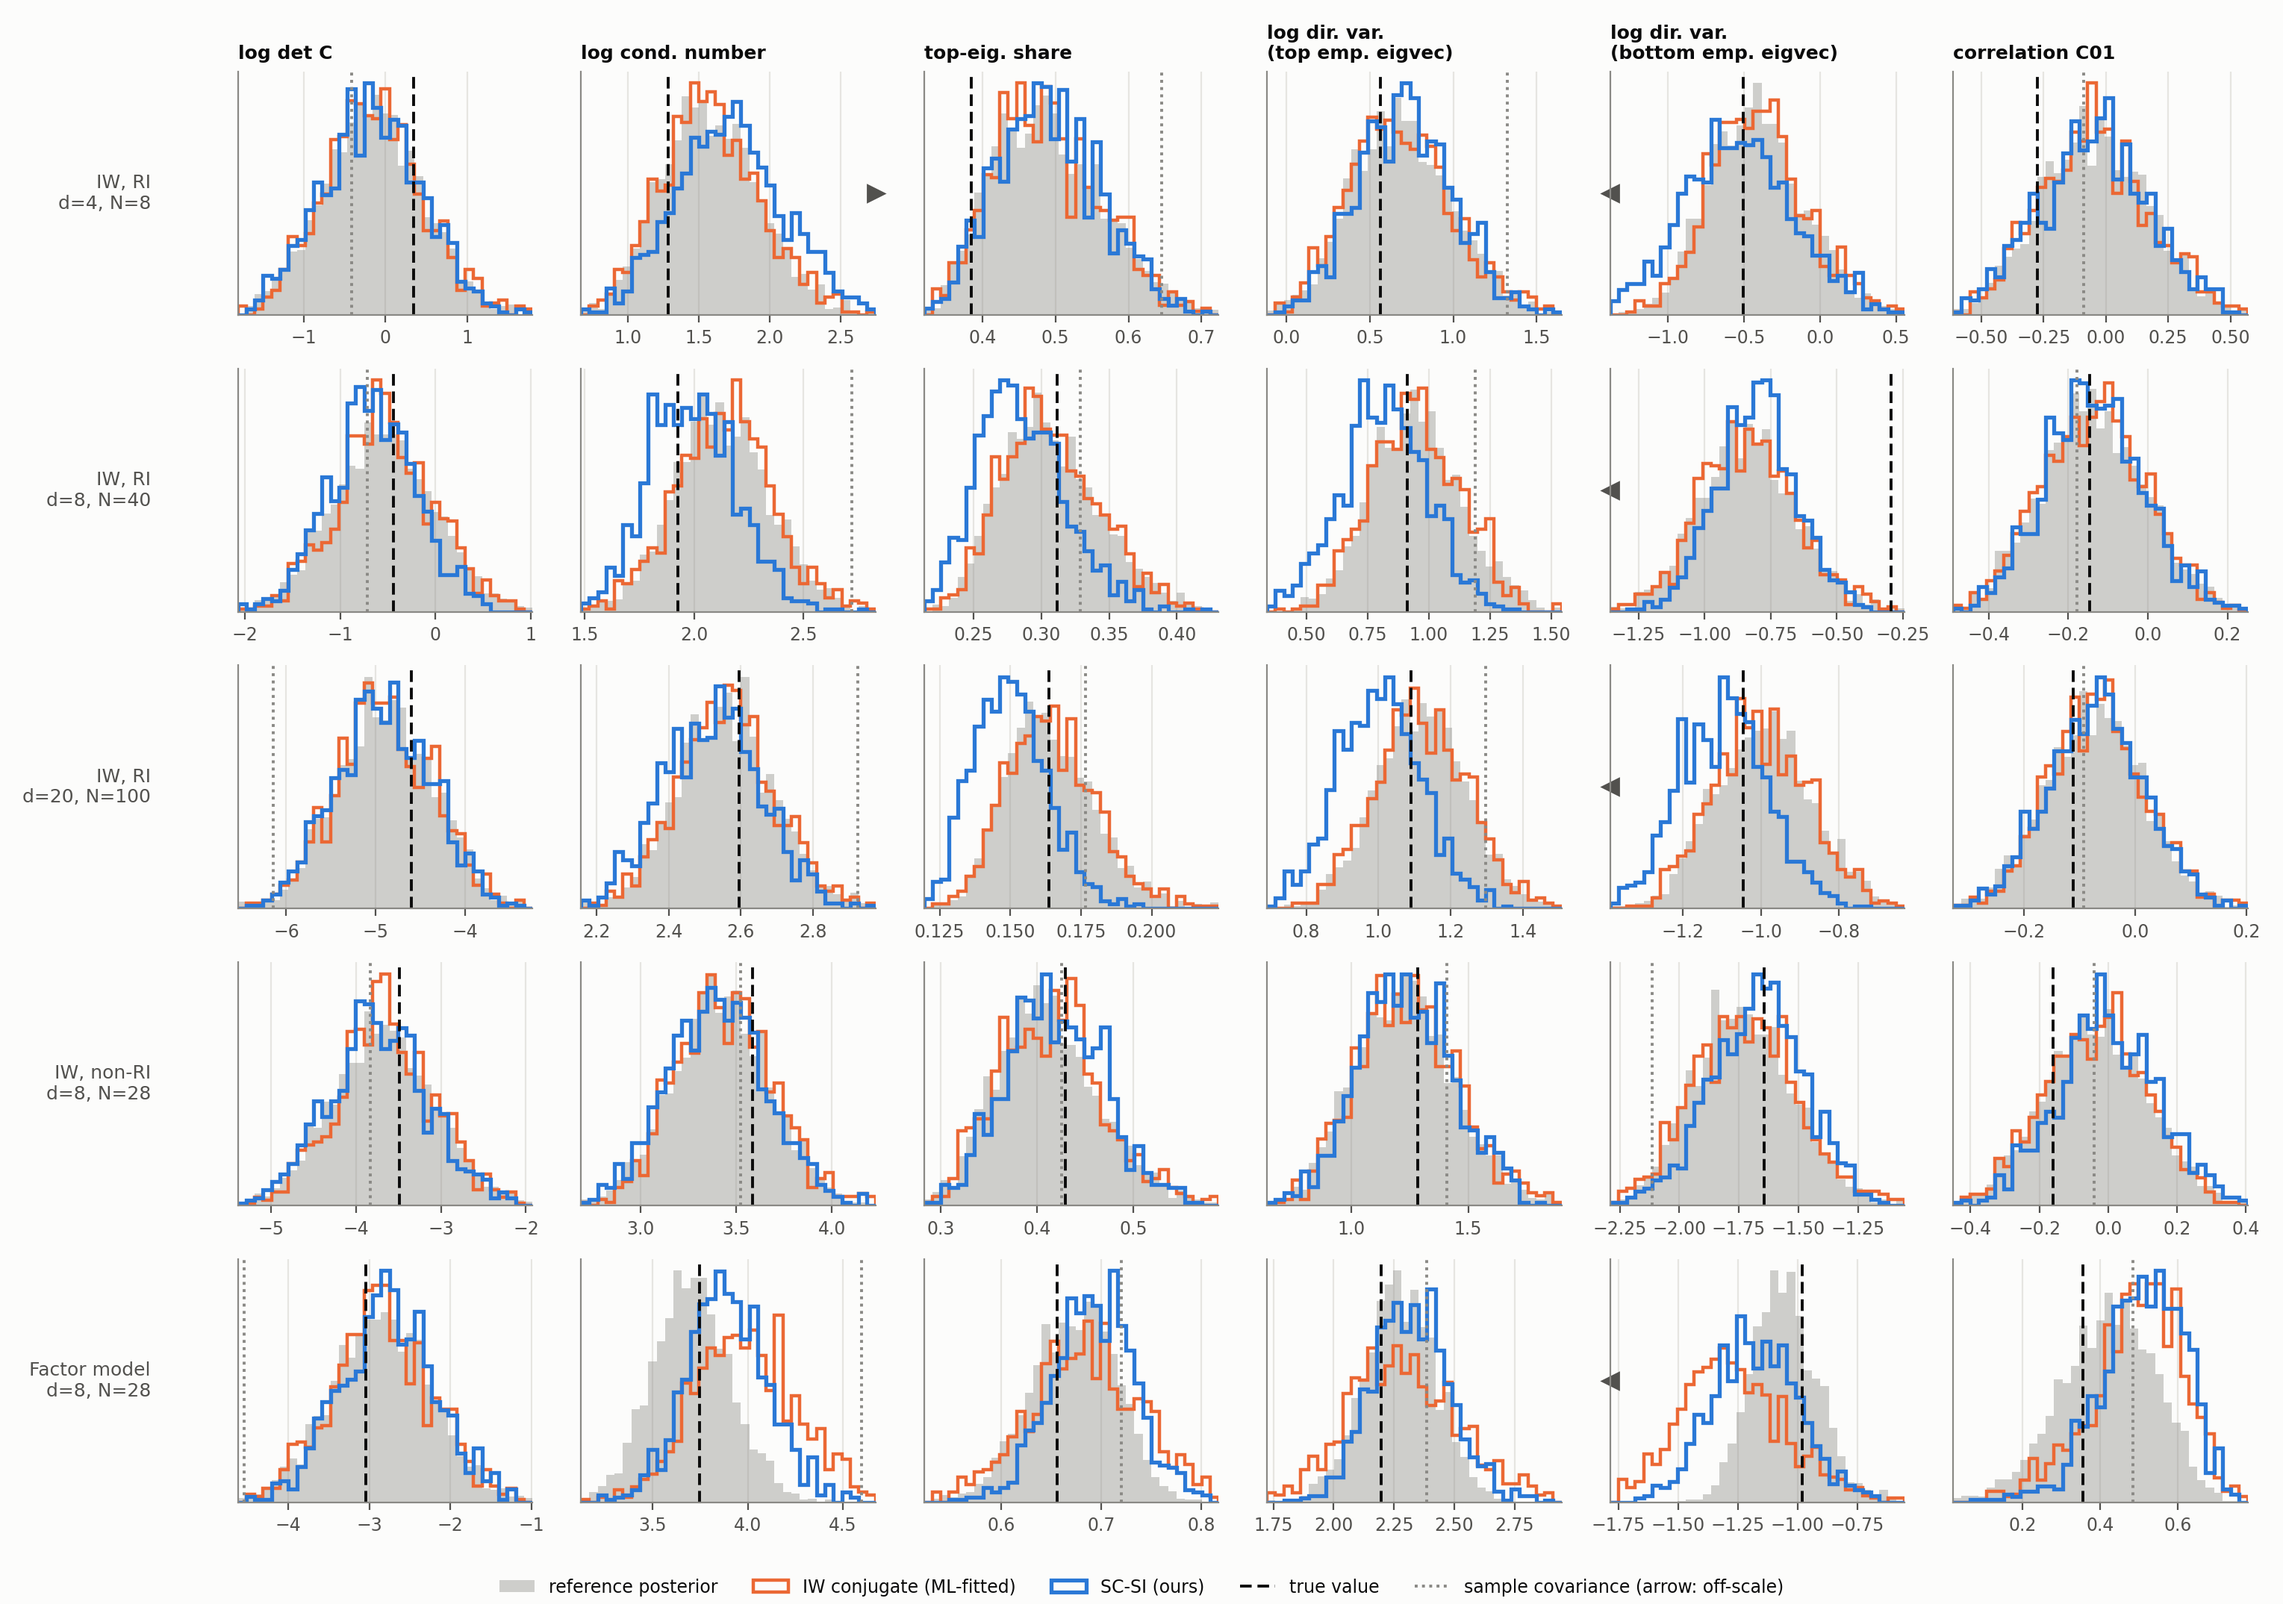
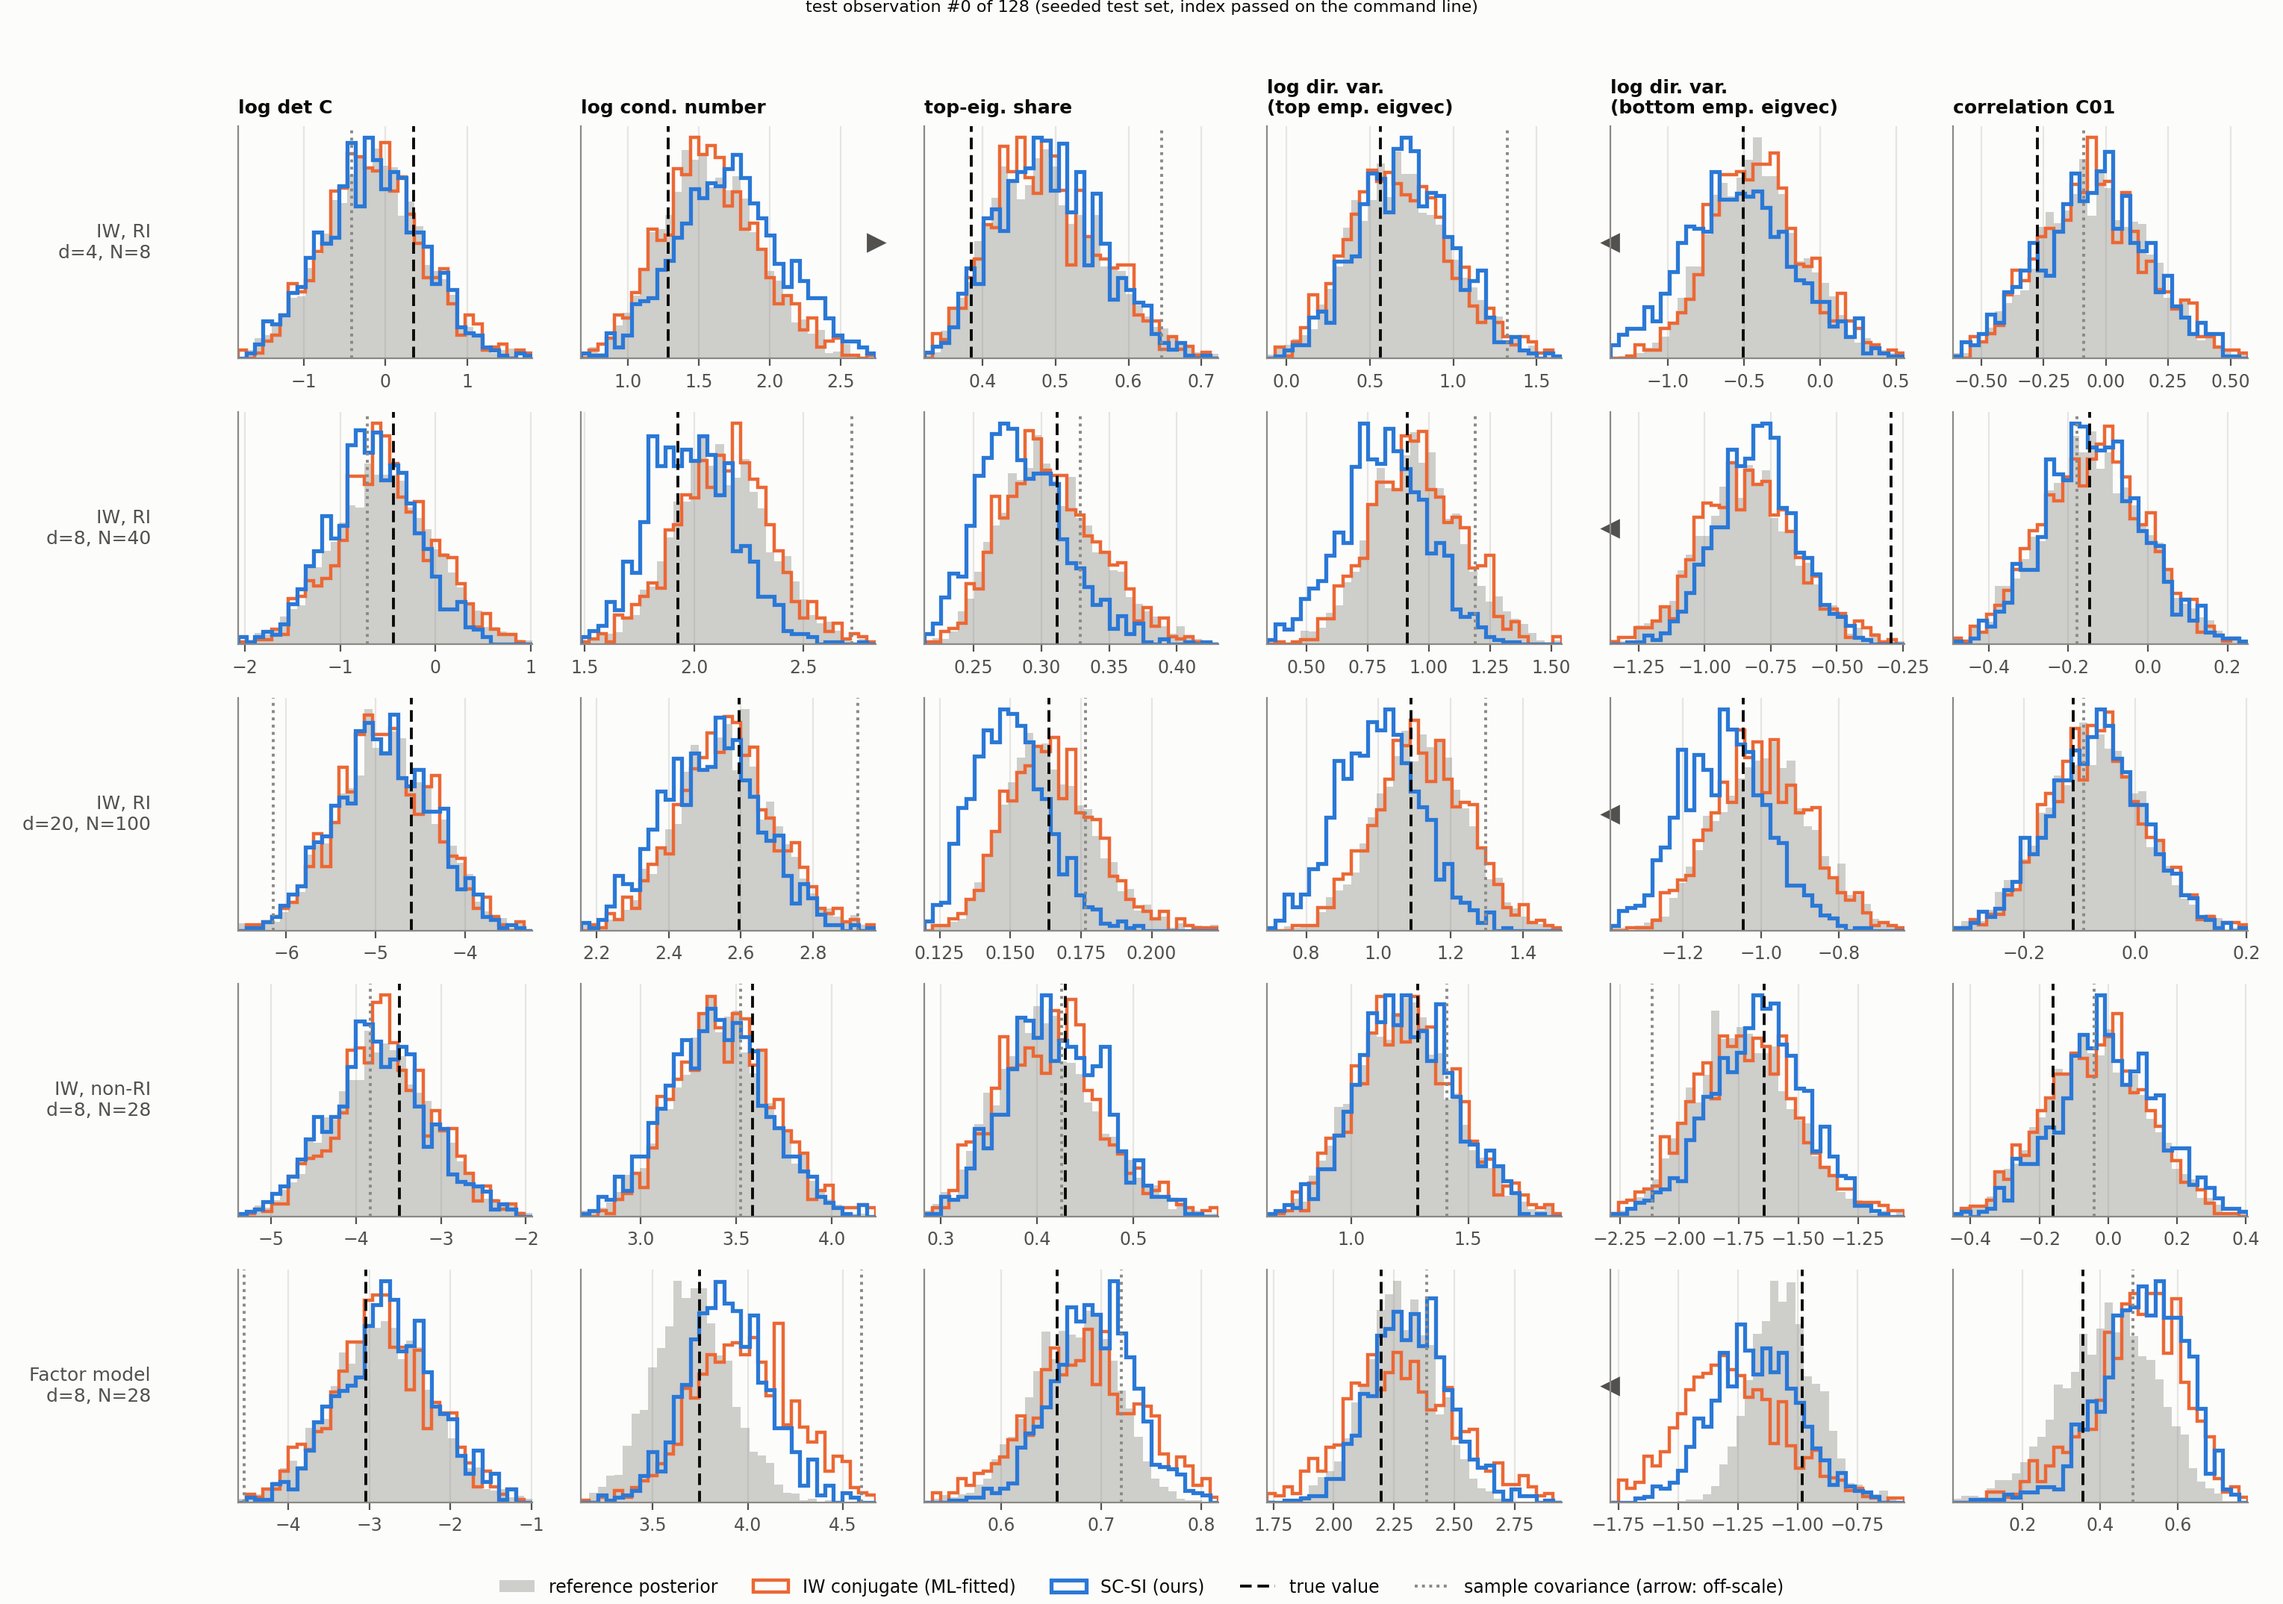
Confirm d=20's "looks worse" posterior-marginal histograms aren't sampling noise
Checked 4 independently-drawn test observations (T1 panel obs 0/5/77/111,
now saved separately instead of overwriting one file) -- the SC-SI
left-shift on top_share/ldv_top/ldv_bot for iw_ri_d20 is consistent across
all of them, not an artifact of which covariance got sampled.

Added toy_ckpt_compare_fig.py to overlay the old (log-score, k=16) and
new (worst-case PIT-KS, k=8) checkpoints from the same trained run
directly against the reference posterior. This isolates exactly what the
worst-case criterion traded: logcond/top_share/ldv_top pull substantially
closer to the reference, while ldv_bot -- previously well-aligned -- picks
up a new, visible left-shift. Both are the same effect already quantified
in bias_z (ldv_bot: -0.55 -> -1.36), now visually confirmed rather than
just numeric.

diff --git a/experiments/toy_ckpt_compare_fig.py b/experiments/toy_ckpt_compare_fig.py
@@ -1,0 +1,46 @@
+"""One-off diagnostic: overlay the old (log-score-selected) and new (worst-case-PIT-KS-selected) SC-SI
+checkpoints against the reference posterior, for a handful of test observations, to visualize the ldv_bot/
+top_share/ldv_top trade-off from switching checkpoint-selection criteria (see toy_train.py, covutils.
+worst_case_pit_ks). Both checkpoints come from the same trained run (results/toys/{toy}_k{K}.pt), so this
+isolates the effect of which outer iteration was picked, not a different random training realization.
+
+Usage: python toy_ckpt_compare_fig.py <toy> <k_old> <k_new> <obs1> [<obs2> ...]"""
+import sys
+import numpy as np
+import matplotlib.pyplot as plt
+from plotstyle import *
+from toy_eval import STATS, LABELS
+
+setup()
+toy, k_old, k_new = sys.argv[1], sys.argv[2], sys.argv[3]
+obs_list = [int(x) for x in sys.argv[4:]] or [0]
+
+D_new = np.load(f"results/toys/{toy}_stats.npz")               # canonical = current best (new criterion)
+D_old = np.load(f"results/toys/{toy}_stats_k{k_old}.npz")
+SHORT = {"logdet": "log det C", "logcond": "log cond. number", "top_share": "top-eig. share",
+         "ldv_top": "log dir. var.\n(top emp. eigvec)", "ldv_bot": "log dir. var.\n(bottom emp. eigvec)", "corr01": "correlation C01"}
+
+nO, nS = len(obs_list), len(STATS)
+fig, axs = plt.subplots(nO, nS, figsize=(2.55 * nS, 2.15 * nO), squeeze=False)
+for i, OBS in enumerate(obs_list):
+    for j, s in enumerate(STATS):
+        ax = axs[i, j]
+        ref = D_new[f"ref__{s}"][OBS]
+        old, new = D_old[f"scsi__{s}"][OBS], D_new[f"scsi__{s}"][OBS]
+        tv = D_new[f"truth__{s}"][OBS]
+        allv = np.concatenate([ref, old, new, [tv]]); lo, hi = np.percentile(allv, [0.3, 99.7])
+        lo, hi = min(lo, tv), max(hi, tv); pad = 0.05 * (hi - lo); lo, hi = lo - pad, hi + pad
+        bins = np.linspace(lo, hi, 36)
+        ax.hist(ref, bins=bins, density=True, color=GRAY, alpha=0.40, lw=0, label="reference posterior")
+        ax.hist(old, bins=bins, density=True, histtype="step", color=INK3, lw=1.6, ls=(0, (3, 1.5)), label=f"SC-SI old (k={k_old}, log-score)")
+        ax.hist(new, bins=bins, density=True, histtype="step", color=BLUE, lw=1.9, label=f"SC-SI new (k={k_new}, worst-case PIT-KS)")
+        ax.axvline(tv, color=INK, lw=1.4, ls=(0, (4, 2)), label="true value")
+        ax.set_xlim(lo, hi); ax.set_yticks([]); ax.grid(axis="y", visible=False)
+        if i == 0: ax.set_title(SHORT[s], fontsize=9)
+        if j == 0: ax.set_ylabel(f"obs #{OBS}", fontsize=9, rotation=0, ha="right", va="center", labelpad=28)
+h, l = axs[0, 0].get_legend_handles_labels()
+fig.legend(h, l, loc="lower center", ncol=4, fontsize=8.5, bbox_to_anchor=(0.5, -0.01))
+fig.suptitle(f"{toy}: old vs new checkpoint-selection criterion, same trained run", fontsize=10, y=1.0)
+fig.tight_layout(rect=(0, 0.045, 1, 0.98))
+fig.savefig(f"figs/{toy}_ckpt_compare_k{k_old}_vs_k{k_new}.png")
+print(f"wrote figs/{toy}_ckpt_compare_k{k_old}_vs_k{k_new}.png")

diff --git a/experiments/toy_figs.py b/experiments/toy_figs.py
@@ -41,7 +41,9 @@ for i, t in enumerate(TOYS):
         if j == 0: ax.set_ylabel(TITLE[t], fontsize=9, rotation=0, ha="right", va="center", labelpad=42)
 h, l = axs[0, 0].get_legend_handles_labels()
 fig.legend(h, l, loc="lower center", ncol=5, fontsize=8.5, bbox_to_anchor=(0.5, -0.005))
-fig.tight_layout(rect=(0, 0.03, 1, 1)); fig.savefig("figs/toys_T1_posterior_marginals.png"); plt.close(fig)
+fig.suptitle(f"test observation #{OBS} of 128 (seeded test set, index passed on the command line)", fontsize=8, y=1.0)
+t1_suffix = "" if OBS == 0 else f"_obs{OBS}"
+fig.tight_layout(rect=(0, 0.03, 1, 0.99)); fig.savefig(f"figs/toys_T1_posterior_marginals{t1_suffix}.png"); plt.close(fig)
 
 # ------------------------------------------------------------------ T2: pooled PIT of learner draws under the reference marginals
 fig, axs = plt.subplots(nT, nS, figsize=(2.55 * nS, 1.95 * nT), squeeze=False)
